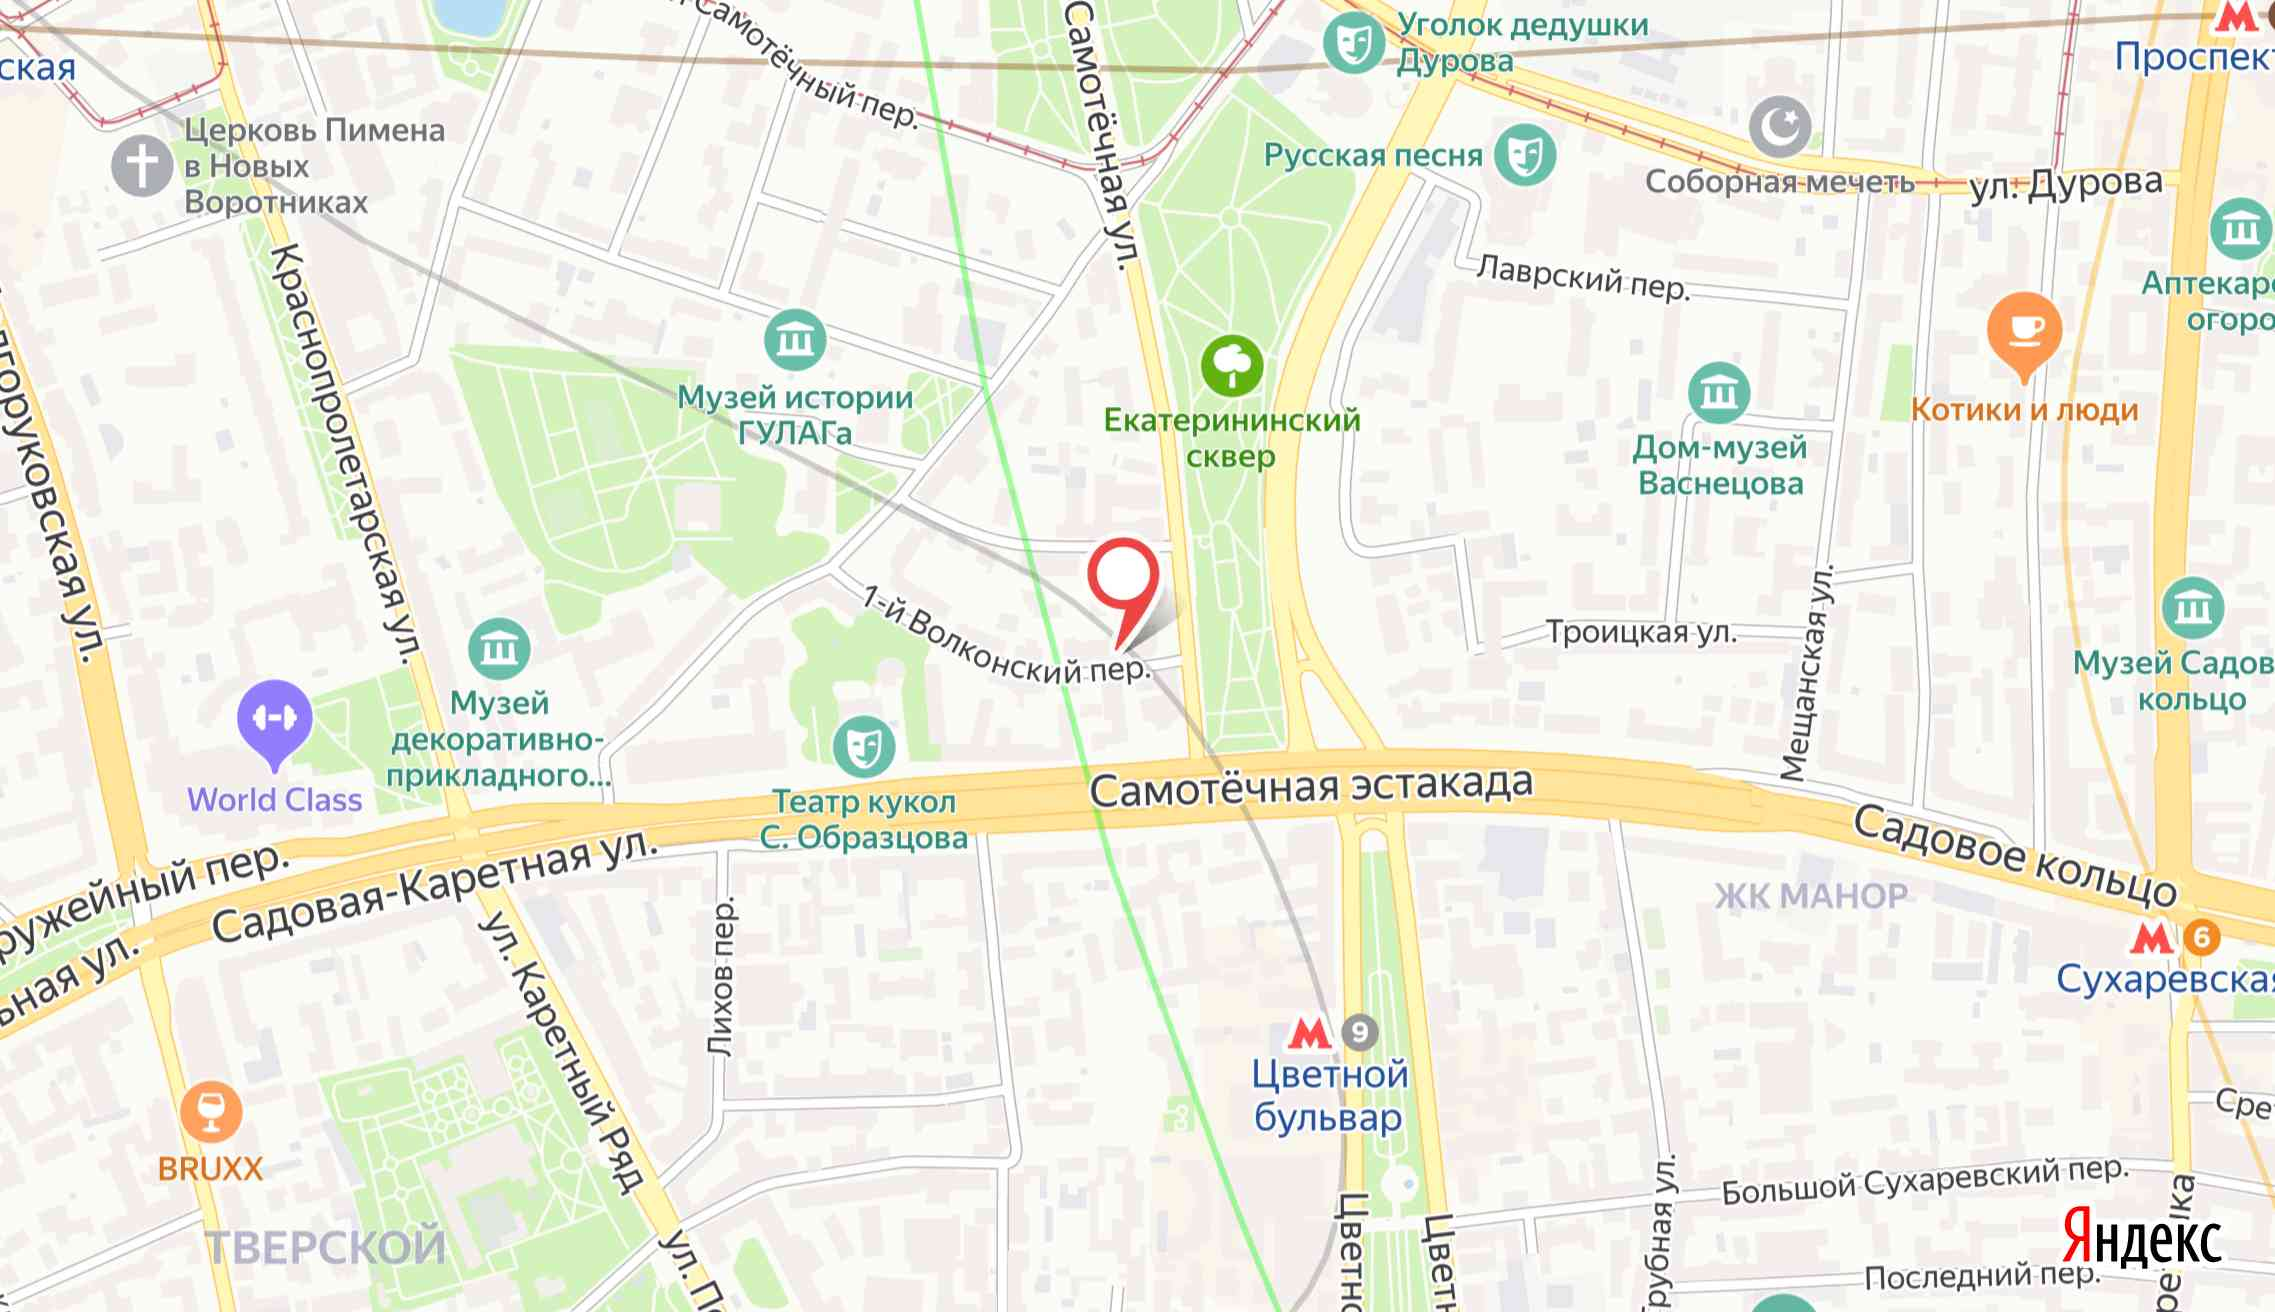
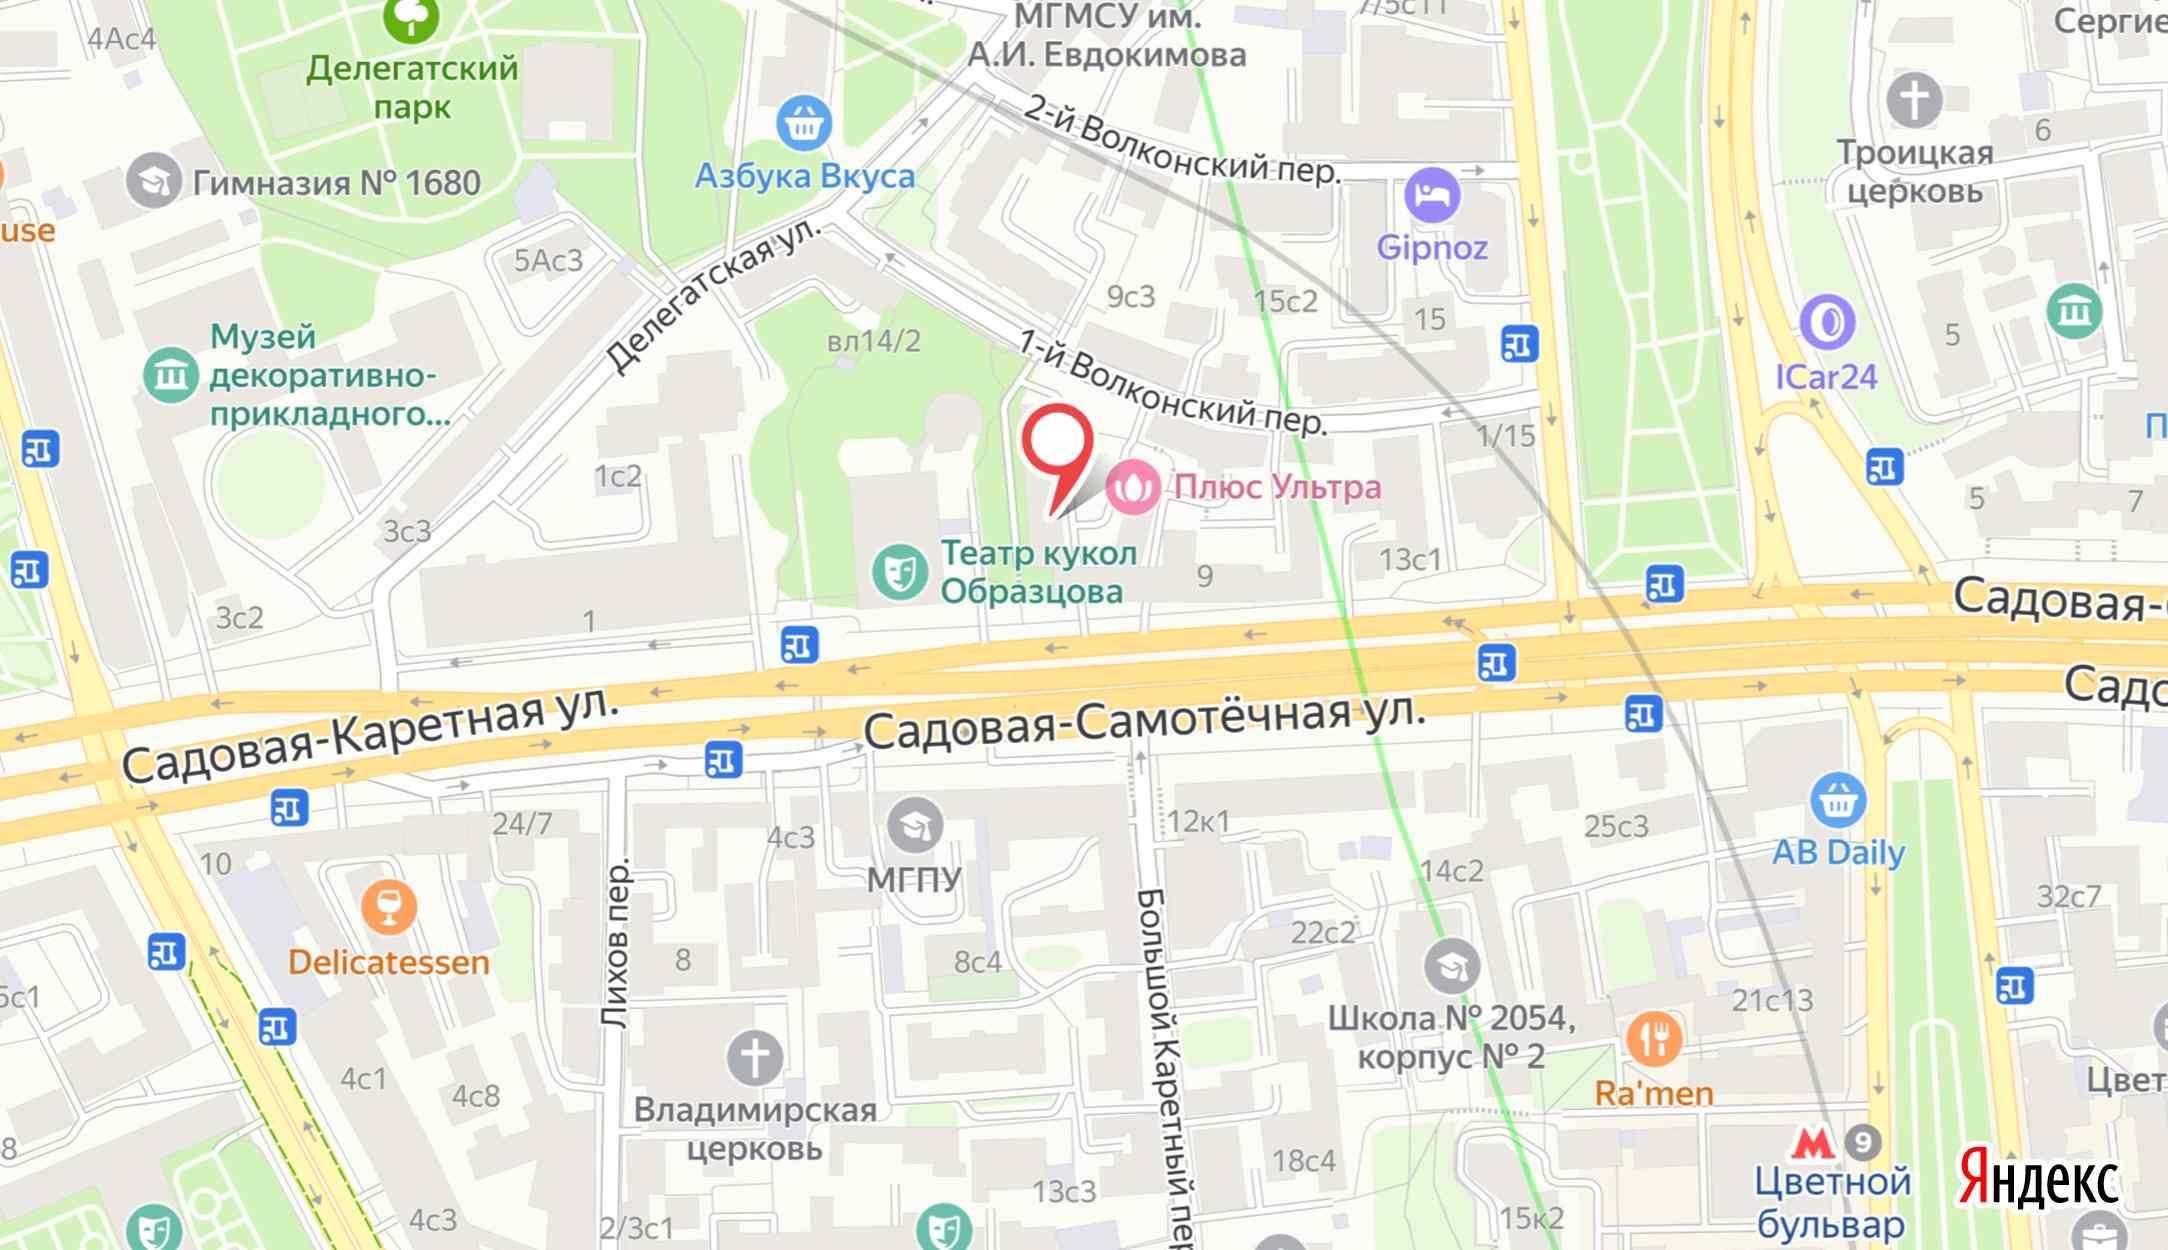
Change address of company

diff --git a/wp-content/themes/expert-massage/src/assets/img/images.js b/wp-content/themes/expert-massage/src/assets/img/images.js
@@ -323,16 +323,14 @@ import './about-page/signature@3x.jpg'
 import './about-page/signature@3x.webp'
 
 // Contacts page
-import './contacts-page/placement-photo_mobile@1x.jpg'
-import './contacts-page/placement-photo_mobile@1x.webp'
-import './contacts-page/placement-photo_mobile@2x.jpg'
-import './contacts-page/placement-photo_mobile@2x.webp'
-import './contacts-page/placement-photo_mobile@3x.jpg'
-import './contacts-page/placement-photo_mobile@3x.webp'
-import './contacts-page/placement-photo_desktop@1x.jpg'
-import './contacts-page/placement-photo_desktop@1x.webp'
-import './contacts-page/placement-photo_desktop@2x.jpg'
-import './contacts-page/placement-photo_desktop@2x.webp'
+import './contacts-page/placement-photo-1@1x.jpg'
+import './contacts-page/placement-photo-1@1x.webp'
+import './contacts-page/placement-photo-1@2x.jpg'
+import './contacts-page/placement-photo-1@2x.webp'
+import './contacts-page/placement-photo-2@1x.jpg'
+import './contacts-page/placement-photo-2@1x.webp'
+import './contacts-page/placement-photo-2@2x.jpg'
+import './contacts-page/placement-photo-2@2x.webp'
 
 // Map
 import './map/static-map_mobile.jpg'

diff --git a/wp-content/themes/expert-massage/src/js/modules/map/map.js b/wp-content/themes/expert-massage/src/js/modules/map/map.js
@@ -18,7 +18,7 @@ function init() {
     </svg>
   `);
 
-  const placemark = new ymaps.Placemark([55.774720281139686, 37.617739298052086], false, {
+  const placemark = new ymaps.Placemark([55.773935, 37.615505], false, {
     iconLayout: iconLayout
   });
 

diff --git a/wp-content/themes/expert-massage/src/assets/scss/blocks/contact-info/contact-info.scss b/wp-content/themes/expert-massage/src/assets/scss/blocks/contact-info/contact-info.scss
@@ -106,7 +106,7 @@
 @media (min-width: $s-desktop-min-width) {
   .contact-info {
     &__content {
-      margin-bottom: 14rem;
+      margin-bottom: 10rem;
     }
 
     &__phones {
